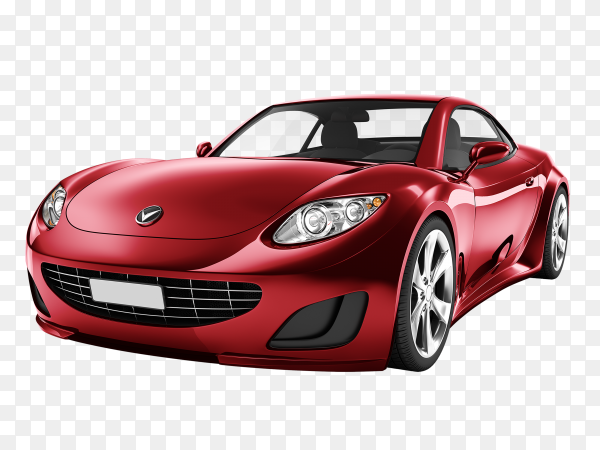
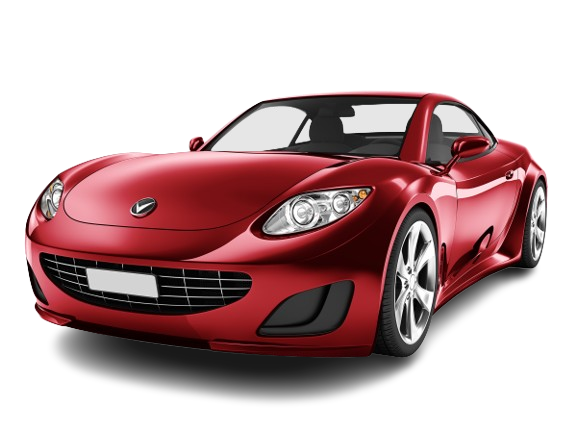
feat: Load files from root

diff --git a/site-template/assets/plugins/parallax-slider/css/parallax-slider.css b/site-template/assets/plugins/parallax-slider/css/parallax-slider.css
@@ -4,7 +4,7 @@
   position: relative;
   margin: 0 auto;
   overflow: hidden;
-  background: transparent url(../img/bg.jpg) repeat 0% 0%;
+  background: transparent url(../img/bg.jpeg) repeat 0% 0%;
   box-shadow: 0px 1px 1px rgba(0, 0, 0, 0.2), 0px -2px 1px #fff;
   -webkit-transition: background-position 1.4s ease-in-out 0.3s;
   -moz-transition: background-position 1.4s ease-in-out 0.3s;

diff --git a/site-template/assets/plugins/owl-carousel/owl.carousel.css b/site-template/assets/plugins/owl-carousel/owl.carousel.css
@@ -53,11 +53,6 @@
   -webkit-tap-highlight-color: rgba(0, 0, 0, 0);
 }
 
-/* mouse grab icon */
-.grabbing {
-  cursor: url(grabbing.png) 8 8, move;
-}
-
 /* fix */
 .owl-carousel .owl-wrapper,
 .owl-carousel .owl-item {

diff --git a/site-template/includes/footer.php b/site-template/includes/footer.php
@@ -12,7 +12,7 @@ if (!defined('SITE_URL')) {
           <!-- About -->
           <div class="wow fadeInUp" style="visibility: hidden; animation-name: none">
             <div class="col-md-3 md-margin-bottom-40">
-              <img id="logo-footer" class="footer-logo img-responsive" src="upload/logo.png" alt="Autocar Motorsport Performance Centre" width="220" />
+              <img id="logo-footer" class="footer-logo img-responsive" src="assets/upload/logo.webp" alt="Autocar Motorsport Performance Centre" width="220" />
               <?php echo FOOTER_DESCRIPTION; ?>
             </div>
             <!--/col-md-3-->
@@ -56,8 +56,8 @@ if (!defined('SITE_URL')) {
             <div class="col-md-3 md-margin-bottom-40">
               <div class="headline"><h2>Connect with us</h2></div>
               <ul class="list-inline dark-social-v2">
-                <li><a href="<?php echo FACEBOOK_URL; ?>"><i class="rounded-sm fa-brands fa-facebook"></i></a></li>
-                <li><a href="<?php echo INSTAGRAM_URL; ?>"><i class="rounded-sm fa-brands fa-instagram"></i></a></li>
+                <li><a href="<?php echo FACEBOOK_URL; ?>"><i class="rounded-sm fa fa-facebook"></i></a></li>
+                <li><a href="<?php echo INSTAGRAM_URL; ?>"><i class="rounded-sm fa fa-instagram"></i></a></li>
               </ul>
             </div>
             <!-- End Link List -->
@@ -83,16 +83,12 @@ if (!defined('SITE_URL')) {
 <!--/wrapper-->
 
 <!-- JS Global Compulsory -->
-<script type="text/javascript" src="assets/plugins/jquery/jquery.min.js"></script>
-<script type="text/javascript" src="assets/plugins/jquery/jquery-migrate.min.js"></script>
 <script type="text/javascript" src="assets/plugins/bootstrap/js/bootstrap.min.js"></script>
 <!-- JS Implementing Plugins -->
 <script type="text/javascript" src="assets/plugins/back-to-top.js"></script>
 <script type="text/javascript" src="assets/plugins/parallax-slider/js/modernizr.js"></script>
 <script type="text/javascript" src="assets/plugins/parallax-slider/js/jquery.cslider.js"></script>
-<script type="text/javascript" src="assets/plugins/owl-carousel/owl-carousel/owl.carousel.js"></script>
-<!-- JS Customization -->
-<script type="text/javascript" src="assets/js/custom.js"></script>
+<script type="text/javascript" src="assets/plugins/owl-carousel/owl.carousel.js"></script>
 <!-- JS Page Level -->
 <script type="text/javascript" src="assets/js/app.js"></script>
 <script type="text/javascript" src="assets/js/plugins/owl-carousel.js"></script>

diff --git a/site-template/includes/head.php b/site-template/includes/head.php
@@ -31,10 +31,9 @@ if (!defined('SITE_URL')) {
   <!-- CSS Implementing Plugins -->
   <link rel="stylesheet" href="assets/plugins/animate.css" />
   <link rel="stylesheet" href="assets/plugins/line-icons/line-icons.css" />
-  <!-- <link rel="stylesheet" href="assets/plugins/font-awesome/css/font-awesome.min.css" /> -->
-   <link rel="stylesheet" href="https://cdnjs.cloudflare.com/ajax/libs/font-awesome/6.6.0/css/all.min.css" integrity="sha512-Kc323vGBEqzTmouAECnVceyQqyqdsSiqLQISBL29aUW4U/M7pSPA/gEUZQqv1cwx4OnYxTxve5UMg5GT6L4JJg==" crossorigin="anonymous" referrerpolicy="no-referrer" />
+  <link rel="stylesheet" href="assets/plugins/font-awesome/css/font-awesome.min.css" />
   <link rel="stylesheet" href="assets/plugins/parallax-slider/css/parallax-slider.css" />
-  <link rel="stylesheet" href="assets/plugins/owl-carousel/owl-carousel/owl.carousel.css" />
+  <link rel="stylesheet" href="assets/plugins/owl-carousel/owl.carousel.css" />
 
   <!-- CSS Theme -->
   <link rel="stylesheet" href="assets/css/theme-skins/dark.css" />
@@ -44,8 +43,8 @@ if (!defined('SITE_URL')) {
   <meta name="google-site-verification" content="e_t9UURXEyLTxbspfwbjKXlDzjY597rRD-akP-38naw" />
 
   <!-- Facebook Pixel Code -->
-  <script id="facebook-jssdk" src="https://connect.facebook.net/en_US/sdk/xfbml.customerchat.js"></script>
-  <script async src="https://connect.facebook.net/en_US/fbevents.js"></script>
+  <!-- <script id="facebook-jssdk" src="https://connect.facebook.net/en_US/sdk/xfbml.customerchat.js"></script>
+  <script async src="https://connect.facebook.net/en_US/fbevents.js"></script> -->
   <script>
     !(function (f, b, e, v, n, t, s) {
       if (f.fbq) return;
@@ -66,6 +65,8 @@ if (!defined('SITE_URL')) {
     fbq('init', '2340207876081442');
     fbq('track', 'PageView');
   </script>
+  <script type="text/javascript" src="assets/plugins/jquery/jquery.min.js"></script>
+  <script type="text/javascript" src="assets/plugins/jquery/jquery-migrate.min.js"></script>
   <noscript>
     <img height="1" width="1" src="https://www.facebook.com/tr?id=2340207876081442&ev=PageView&noscript=1" />
   </noscript>

diff --git a/config-tp15.php b/config-tp15.php
@@ -82,7 +82,7 @@
 //SITE SPECIFIC DETAILS - must not be spun by AI but is unique to the individual site rather than common to all sites created by the template - some need to be here because they utilise Site Specific CONSTANTS
 //******************************************************// 
 
-define('SITE_URL', 'https://www.ozmo-motorsport.co.uk');
+define('SITE_URL', '');
 define('SITE_TITLE', 'Autocar Motorsport - The NO1 Remap Tuning Specialists in Dorset & the South of England');
 define('META_DESCRIPTION', 'Autocar Motorsport - We specialize in ECU remapping, ECU programming and chip tuning for almost any vehicle. We cover Dorset and the South of England. Mobile car remap.');
 define('PHONE', '01305 457750');

diff --git a/site-template/includes/header.php b/site-template/includes/header.php
@@ -64,7 +64,7 @@ function render_nav_menu($items) {
     <div class="container">
       <!-- Logo -->
       <a class="logo" href="/">
-        <img src="upload/logo.png" width="275" alt="<?php echo BUSINESS_NAME; ?>" />
+        <img src="assets/upload/logo.webp" width="275" alt="<?php echo BUSINESS_NAME; ?>" />
       </a>
       <!-- End Logo -->
 
